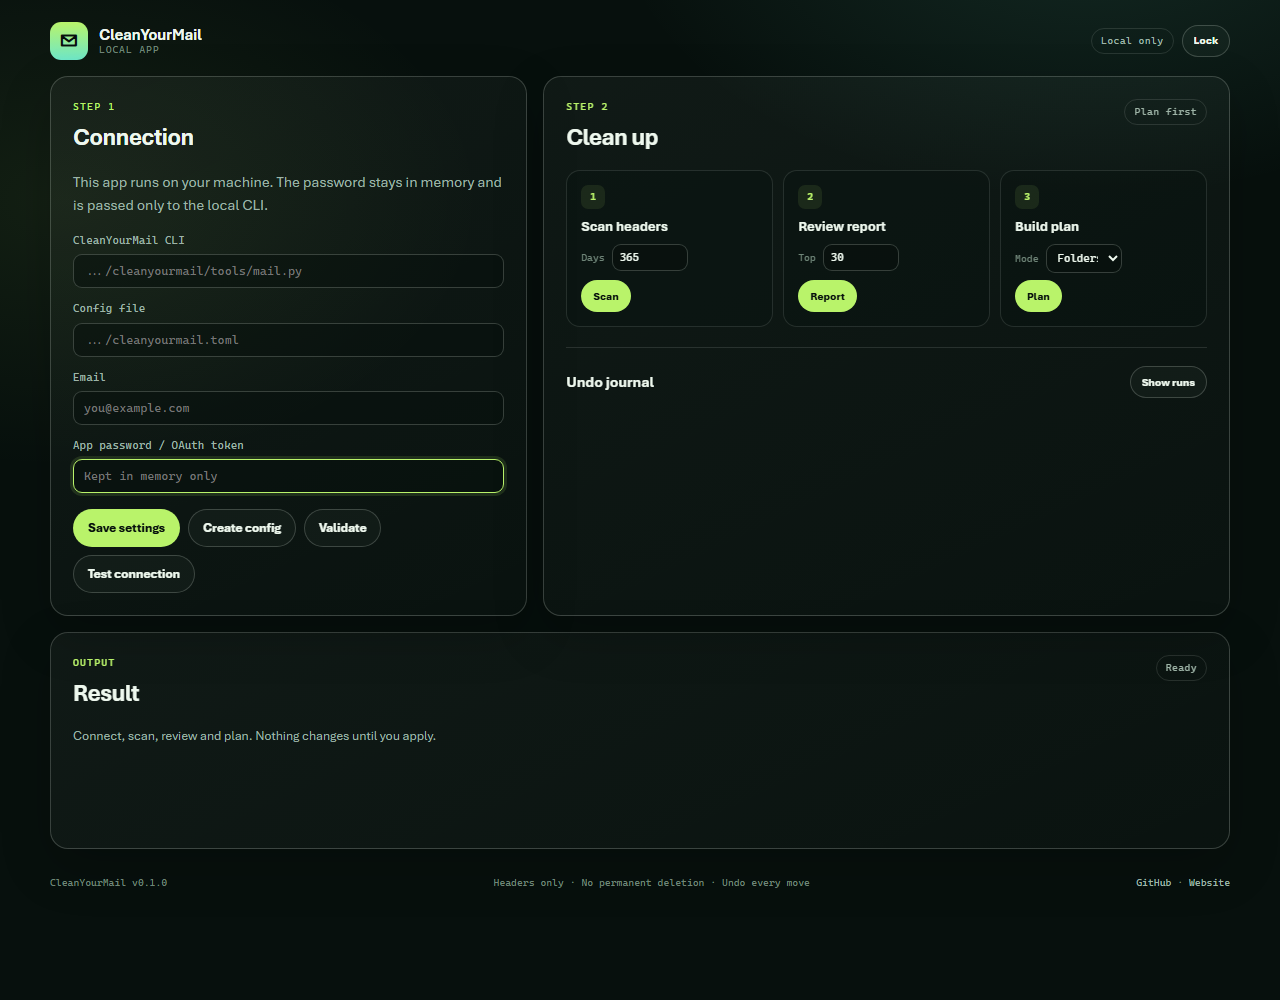
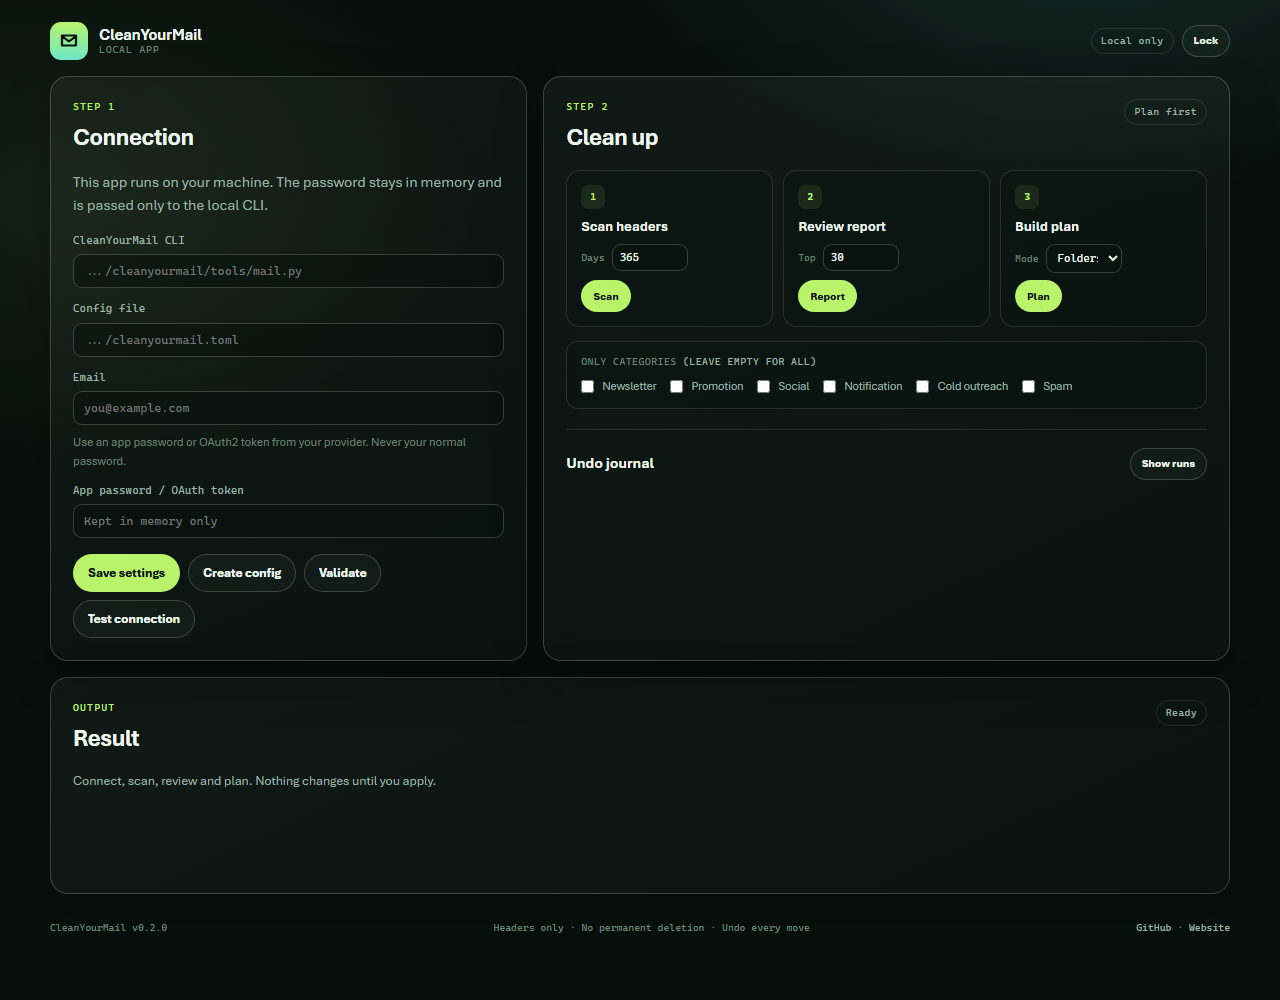
app: add apply limits, category filters and host checks

diff --git a/static/app.js b/static/app.js
@@ -71,6 +71,28 @@
     return body;
   };
 
+  const providerHints = {
+    "gmail.com": "Gmail: enable IMAP and use a 16-character App Password with 2-Step Verification.",
+    "googlemail.com": "Gmail: enable IMAP and use a 16-character App Password with 2-Step Verification.",
+    "outlook.com": "Microsoft: use an OAuth2 access token; basic auth is disabled.",
+    "hotmail.com": "Microsoft: use an OAuth2 access token; basic auth is disabled.",
+    "live.com": "Microsoft: use an OAuth2 access token; basic auth is disabled.",
+    "yahoo.com": "Yahoo: create an app password in Account Security.",
+    "icloud.com": "iCloud: use an app-specific password; 2FA is required.",
+    "me.com": "iCloud: use an app-specific password; 2FA is required.",
+    "fastmail.com": "Fastmail: create a scoped app password with IMAP/SMTP access.",
+    "proton.me": "Proton: run Proton Bridge and use its local password.",
+    "protonmail.com": "Proton: run Proton Bridge and use its local password.",
+  };
+
+  const updateProviderHint = () => {
+    const email = $("email").value.trim();
+    const domain = email.includes("@") ? email.split("@").pop().toLowerCase() : "";
+    $("providerHint").textContent = domain
+      ? (providerHints[domain] || "Use an app password or OAuth2 token from your provider. Never your normal password.")
+      : "Use an app password or OAuth2 token from your provider. Never your normal password.";
+  };
+
   const action = async (button, label, fn) => {
     if (state.busy) return;
     state.busy = true;
@@ -97,6 +119,7 @@
     $("envBadge").classList.toggle("hidden", !data.password_env_set);
     $("envNote").classList.toggle("hidden", !data.password_env_set);
     $("appVersion").textContent = data.app_version ? "v" + data.app_version : "";
+    updateProviderHint();
     if (state.planReady) {
       $("planState").textContent = state.planApplied
         ? "Applied"
@@ -398,6 +421,8 @@
 
   const plan = (button) => runCommand(button, "Planning…", "/api/plan", {
     mode: $("mode").value,
+    categories: Array.from(document.querySelectorAll("#planCategories input:checked"))
+      .map((item) => item.value),
   }, {
     after: (result) => {
       if (result.ok && result.data && result.data.plan) {
@@ -425,7 +450,10 @@
     if (!$("reviewPlan").checked) return;
     if (!window.confirm("Apply the planned moves? This changes your mailbox. Moves are reversible.")) return;
     action(button, "Applying…", async () => {
-      const result = await api("/api/apply", secretBody({ confirm: "APPLY" }));
+      const result = await api("/api/apply", secretBody({
+        confirm: "APPLY",
+        limit: Number($("applyLimit").value || 50),
+      }));
       $("reviewPlan").checked = false;
       $("applyButton").disabled = true;
       $("planState").textContent = "Applied";
@@ -462,6 +490,7 @@
   const lock = (button) => action(button, "Locking…", async () => {
     await api("/api/lock", {});
     state.csrf = "";
+    $("password").value = "";
     clear($("output"));
     $("output").append(el("p", "success", "Session ended. Close this tab and restart the app to open a new session."));
     setStatus("Locked");
@@ -469,6 +498,7 @@
   });
 
   const wire = () => {
+    $("email").addEventListener("input", updateProviderHint);
     $("saveSettings").addEventListener("click", () => saveSettings($("saveSettings")));
     $("createConfig").addEventListener("click", () => createConfig($("createConfig")));
     $("validate").addEventListener("click", () => runCommand($("validate"), "Validating…", "/api/validate", {}));

diff --git a/static/index.html b/static/index.html
@@ -35,6 +35,7 @@
       <label class="field"><span>Email</span>
         <input id="email" type="email" autocomplete="off" placeholder="you@example.com">
       </label>
+      <p id="providerHint" class="note provider-hint"></p>
       <label class="field"><span>App password / OAuth token</span>
         <input id="password" type="password" autocomplete="off" placeholder="Kept in memory only">
       </label>
@@ -75,11 +76,24 @@
         </article>
       </div>
 
+      <div class="filters">
+        <p class="filter-title">Only categories <span class="muted">(leave empty for all)</span></p>
+        <div class="filter-grid" id="planCategories">
+          <label class="check"><input type="checkbox" value="newsletter"> Newsletter</label>
+          <label class="check"><input type="checkbox" value="promotion"> Promotion</label>
+          <label class="check"><input type="checkbox" value="social"> Social</label>
+          <label class="check"><input type="checkbox" value="notification"> Notification</label>
+          <label class="check"><input type="checkbox" value="cold"> Cold outreach</label>
+          <label class="check"><input type="checkbox" value="spam"> Spam</label>
+        </div>
+      </div>
+
       <div id="planPanel" class="plan hidden">
         <div class="plan-head"><h3>Plan review</h3><span id="planState" class="badge">Not reviewed</span></div>
         <div id="planSummary"></div>
         <div class="warning"><strong>Nothing is applied yet.</strong> Review the actions below. Moves are reversible; unsubscribe is not.</div>
         <label class="check"><input id="reviewPlan" type="checkbox"> I reviewed this plan</label>
+        <label class="inline apply-limit"><span>Max moves</span><input id="applyLimit" type="number" value="50" min="1" max="10000"></label>
         <button id="applyButton" class="button danger" type="button" disabled>Apply moves</button>
 
         <div class="unsub">

diff --git a/static/styles.css b/static/styles.css
@@ -146,6 +146,43 @@ code {
   font-size: 12px;
 }
 
+.provider-hint {
+  margin: -4px 0 8px;
+  min-height: 1em;
+}
+
+.filters {
+  margin: 14px 0 4px;
+  padding: 12px 14px;
+  border: 1px solid var(--line);
+  border-radius: 12px;
+  background: rgba(7, 16, 13, 0.35);
+}
+
+.filter-title {
+  margin: 0 0 8px;
+  color: var(--muted-2);
+  font-family: var(--mono);
+  font-size: 10px;
+  letter-spacing: 0.05em;
+  text-transform: uppercase;
+}
+
+.filter-grid {
+  display: flex;
+  flex-wrap: wrap;
+  gap: 6px 14px;
+}
+
+.filter-grid .check {
+  margin: 0;
+  font-size: 11.5px;
+}
+
+.apply-limit {
+  margin: 8px 0;
+}
+
 .field {
   display: flex;
   flex-direction: column;

diff --git a/cleanyourmail_app/server.py b/cleanyourmail_app/server.py
@@ -188,6 +188,14 @@ class Handler(BaseHTTPRequestHandler):
             return False
         return True
 
+    def _require_host(self) -> bool:
+        host = self.headers.get("Host", "").lower()
+        allowed = {f"127.0.0.1:{self.port}", f"localhost:{self.port}"}
+        if host not in allowed:
+            self._error(403, "Host not allowed.")
+            return False
+        return True
+
     # -- static ------------------------------------------------------------
 
     def _serve_index(self) -> None:
@@ -267,6 +275,8 @@ class Handler(BaseHTTPRequestHandler):
     # -- GET ---------------------------------------------------------------
 
     def do_GET(self) -> None:
+        if not self._require_host():
+            return
         parsed = urllib.parse.urlsplit(self.path)
         path = parsed.path
         if path == "/":
@@ -303,6 +313,8 @@ class Handler(BaseHTTPRequestHandler):
     # -- POST --------------------------------------------------------------
 
     def do_POST(self) -> None:
+        if not self._require_host():
+            return
         parsed = urllib.parse.urlsplit(self.path)
         path = parsed.path
         session = self._require_session()
@@ -348,7 +360,17 @@ class Handler(BaseHTTPRequestHandler):
             mode = body.get("mode", "folders")
             if mode not in {"folders", "archive"}:
                 raise ValueError("mode must be folders or archive.")
-            result = self._run(["plan", "--mode", mode], body, 120)
+            categories = body.get("categories", [])
+            if not isinstance(categories, list):
+                raise ValueError("categories must be a list.")
+            allowed = {"newsletter", "promotion", "social", "notification", "cold", "spam"}
+            unknown = set(categories) - allowed
+            if unknown:
+                raise ValueError(f"Unknown categories: {', '.join(sorted(unknown))}.")
+            command = ["plan", "--mode", mode]
+            for category in categories:
+                command.extend(["--category", str(category)])
+            result = self._run(command, body, 120)
             payload = self._result_payload(result)
             data = result.get("data") or {}
             if result["ok"] and isinstance(data, dict) and data.get("path"):
@@ -444,8 +466,10 @@ class Handler(BaseHTTPRequestHandler):
             return
         if body.get("confirm") != "APPLY":
             raise ValueError('confirm must be "APPLY".')
+        limit = self._int(body, "limit", 1, 10000, 50)
         result = self._run(
-            ["apply", self.state.plan_path, "--yes", "--action", "move"],
+            ["apply", self.state.plan_path, "--yes", "--action", "move",
+             "--limit", str(limit)],
             body,
             900,
         )

diff --git a/tests/test_server.py b/tests/test_server.py
@@ -14,7 +14,7 @@ FAKE = """\
 import json, sys
 cmd = sys.argv[1] if len(sys.argv) > 1 else ""
 if cmd == "plan":
-    print(json.dumps({"path": "plan.json", "plan": {"stats": {"messages": 2, "actionable": 1}, "actions": [{"type": "move", "category": "newsletter", "mailbox": "INBOX", "uids": [1], "dest": "CleanYourMail/Newsletters"}]}}))
+    print(json.dumps({"path": "plan.json", "args": sys.argv[2:], "plan": {"stats": {"messages": 2, "actionable": 1}, "actions": [{"type": "move", "category": "newsletter", "mailbox": "INBOX", "uids": [1], "dest": "CleanYourMail/Newsletters"}]}}))
 else:
     print(json.dumps({"ok": True, "command": cmd, "args": sys.argv[2:]}))
 """
@@ -121,20 +121,31 @@ class ServerTest(unittest.TestCase):
         cookie, csrf = self.open_session()
         origin = f"http://127.0.0.1:{self.port}"
         headers = {"Cookie": cookie, "X-CSRF-Token": csrf, "Origin": origin}
-        status, _, payload = self.request("POST", "/api/plan", body={"mode": "folders"}, headers=headers)
+        status, _, payload = self.request("POST", "/api/plan", body={"mode": "folders", "categories": ["newsletter", "spam"]}, headers=headers)
         self.assertEqual(status, 200)
         self.assertTrue(payload["ok"])
+        self.assertIn("--category", payload["data"]["args"])
+        self.assertIn("newsletter", payload["data"]["args"])
+        self.assertIn("spam", payload["data"]["args"])
         self.assertEqual(self.state.plan_path, "plan.json")
         status, _, payload = self.request("POST", "/api/plan/review", body={"reviewed": True}, headers=headers)
         self.assertEqual(status, 200)
         self.assertTrue(payload["reviewed"])
-        status, _, payload = self.request("POST", "/api/apply", body={"confirm": "APPLY"}, headers=headers)
+        status, _, payload = self.request("POST", "/api/apply", body={"confirm": "APPLY", "limit": 5}, headers=headers)
         self.assertEqual(status, 200)
         self.assertTrue(payload["ok"])
+        self.assertIn("--limit", payload["data"]["args"])
+        self.assertIn("5", payload["data"]["args"])
         self.assertTrue(self.state.plan_applied)
         status, _, payload = self.request("POST", "/api/apply", body={"confirm": "APPLY"}, headers=headers)
         self.assertEqual(status, 409)
         self.assertIn("already", payload["error"])
+
+    def test_host_header_is_checked(self):
+        cookie, _ = self.open_session()
+        status, _, _ = self.request(
+            "GET", "/api/state", headers={"Cookie": cookie, "Host": "evil.example"})
+        self.assertEqual(status, 403)
 
     def test_lock_invalidates_the_session(self):
         cookie, csrf = self.open_session()

diff --git a/cleanyourmail_app/__init__.py b/cleanyourmail_app/__init__.py
@@ -1,3 +1,3 @@
 """Local web UI for CleanYourMail."""
 
-__version__ = "0.1.0"
+__version__ = "0.2.0"

diff --git a/README.md b/README.md
@@ -17,7 +17,7 @@ scan headers, review a plan, apply reversible moves, unsubscribe separately and 
 
 No cloud, no account, no telemetry, no bodies, no permanent deletion.
 
-> **Status:** `0.1.0` MVP. Local only, from source. The CLI remains the source of truth.
+> **Status:** `0.2.0` MVP. Local only, from source. The CLI remains the source of truth.
 
 ![CleanYourMail local app](docs/screenshot.png)
 
@@ -53,6 +53,8 @@ cd cleanyourmail-app
 python app.py
 ```
 
+On Windows you can also double-click `run.bat`; on macOS/Linux, `./run.sh`.
+
 The app starts a local server on `127.0.0.1` with a random port and prints a **one-time URL**. It
 opens your browser. If the browser does not open, copy the URL from the terminal.
 
@@ -65,7 +67,8 @@ path in the app.
 2. Enter your email and click **Create config**. The CLI picks the provider preset from the domain.
 3. Put your app password or OAuth2 token in the password field. It stays in memory.
 4. Click **Test connection**.
-5. Scan, review the report and build a plan.
+5. Scan, review the report and build a plan. You can limit the plan to specific categories and the
+   first apply to a maximum number of moves.
 6. Review the plan, check the box and apply the moves.
 7. Unsubscribe separately, only if you want to. It is irreversible.
 8. Use the undo journal for moves and Gmail archives.
@@ -91,6 +94,7 @@ Unsubscribe is separate on purpose. The app will not mix it with the move step.
 ## Security model
 
 - **Localhost only.** The server binds `127.0.0.1`; there is no option to expose it.
+- **Host and Origin allowlists.** Requests must use a localhost `Host` and `Origin`.
 - **One-time URL + session.** The startup token is single-use. The browser gets an `HttpOnly`,
   `SameSite=Strict` session cookie.
 - **CSRF and Origin checks.** Every API call needs the session, a CSRF header and a localhost Origin.
@@ -125,15 +129,16 @@ python -m unittest discover -s tests -v
 python -m compileall -q app.py cleanyourmail_app tests
 ```
 
-The suite covers the session store, CLI wrapper, one-time token, CSRF/Origin checks, security
-headers, static path traversal and session lock. The CLI tests use a fake `mail.py`, so no real
-mailbox is needed.
+The suite covers the session store, CLI wrapper, one-time token, CSRF/Origin/Host checks, security
+headers, static path traversal, plan review, single-use apply and session lock. The CLI tests use a
+fake `mail.py`, so no real mailbox is needed.
 
 ## Project layout
 
 | Path | What it is |
 |---|---|
 | `app.py` | Entry point. |
+| `run.bat`, `run.sh` | Launchers for Windows and macOS/Linux. |
 | `cleanyourmail_app/server.py` | Local HTTP server and API routes. |
 | `cleanyourmail_app/cli.py` | Locates and calls the CleanYourMail CLI. |
 | `cleanyourmail_app/security.py` | One-time tokens, sessions, CSRF. |

diff --git a/docs/ARCHITECTURE.md b/docs/ARCHITECTURE.md
@@ -66,8 +66,9 @@ The trade-off is that the app cannot stream fine-grained progress yet. A future 
 2. The browser opens the URL. The server consumes the token, creates a session and redirects to `/`
    with an `HttpOnly`, `SameSite=Strict` cookie.
 3. The UI fetches `/api/state`, receives the CSRF token and the current paths, and renders.
-4. Every POST sends the session cookie, `X-CSRF-Token` and a localhost `Origin`.
-5. The server validates all three, runs the CLI, parses JSON and returns a result.
+4. Every POST sends the session cookie, `X-CSRF-Token` and a localhost `Origin`. The server also
+   checks the `Host` header.
+5. The server validates all of them, runs the CLI, parses JSON and returns a result.
 6. The UI renders the result with DOM text nodes, never `innerHTML`.
 
 ## State
@@ -86,11 +87,12 @@ journals. Those belong to the CLI and its `state_dir`.
 
 ## Plan review and apply
 
-`plan` runs the CLI and returns `{path, plan}`. The app keeps the plan path in memory and sets
-`plan_reviewed = false`. The UI must display the plan and the user must check the review box, which
-calls `/api/plan/review`. `apply` is refused unless `plan_reviewed` is true and the request includes
-`confirm: "APPLY"`. After a successful apply, the plan is marked applied and a second apply is
-refused until a new plan is built. Unsubscribe can still use the same plan.
+`plan` runs the CLI and returns `{path, plan}`. The UI can pass category filters and the app keeps the
+plan path in memory with `plan_reviewed = false`. The UI must display the plan and the user must check
+the review box, which calls `/api/plan/review`. `apply` is refused unless `plan_reviewed` is true and
+the request includes `confirm: "APPLY"`. The first apply is capped by the UI (default 50 moves). After
+a successful apply, the plan is marked applied and a second apply is refused until a new plan is
+built. Unsubscribe can still use the same plan.
 
 Unsubscribe is a separate endpoint with its own checkbox, `confirm: "UNSUBSCRIBE"` and a 1–50 cap.
 Undo is a separate endpoint with `confirm: "UNDO"` and a validated run id.

diff --git a/docs/THREAT_MODEL.md b/docs/THREAT_MODEL.md
@@ -28,7 +28,7 @@ subprocess boundary and the files the app touches. The CLI's own threat model is
 |---|---|
 | Another local user opens the app | Random port, one-time URL token, session cookie, `SameSite=Strict`; the app is meant for a single-user machine. |
 | Malicious website sends requests to localhost | `Origin` allowlist, CSRF header, `SameSite=Strict` cookie, JSON-only POSTs. |
-| DNS rebinding | Server binds `127.0.0.1`; `Origin` must be localhost with the actual port. |
+| DNS rebinding | Server binds `127.0.0.1`; `Host` and `Origin` must be localhost with the actual port. |
 | Session theft through XSS | Strict CSP, no inline scripts, no external assets, all email data rendered with `textContent`. |
 | Secret in logs | The server does not log request bodies, query strings or cookies. The password is never written to disk. |
 | Secret in the repo | The app stores only paths; the password is a page-memory value or `CYM_PASSWORD` in the server environment. |

diff --git a/SECURITY.md b/SECURITY.md
@@ -33,7 +33,7 @@ rules and it does not add capabilities the CLI does not have.
 - Binds to `127.0.0.1` only.
 - Starts with a one-time token in the URL. The token is consumed and the browser gets an `HttpOnly`,
   `SameSite=Strict` session cookie.
-- Every API call requires the session, a CSRF token and a localhost `Origin`.
+- Every API call requires the session, a CSRF token, a localhost `Origin` and a localhost `Host`.
 - Strict Content Security Policy, no inline scripts, no external assets, no telemetry.
 - The password is kept in page memory and passed to the CLI subprocess through its environment. It is
   never written to disk or logs.
